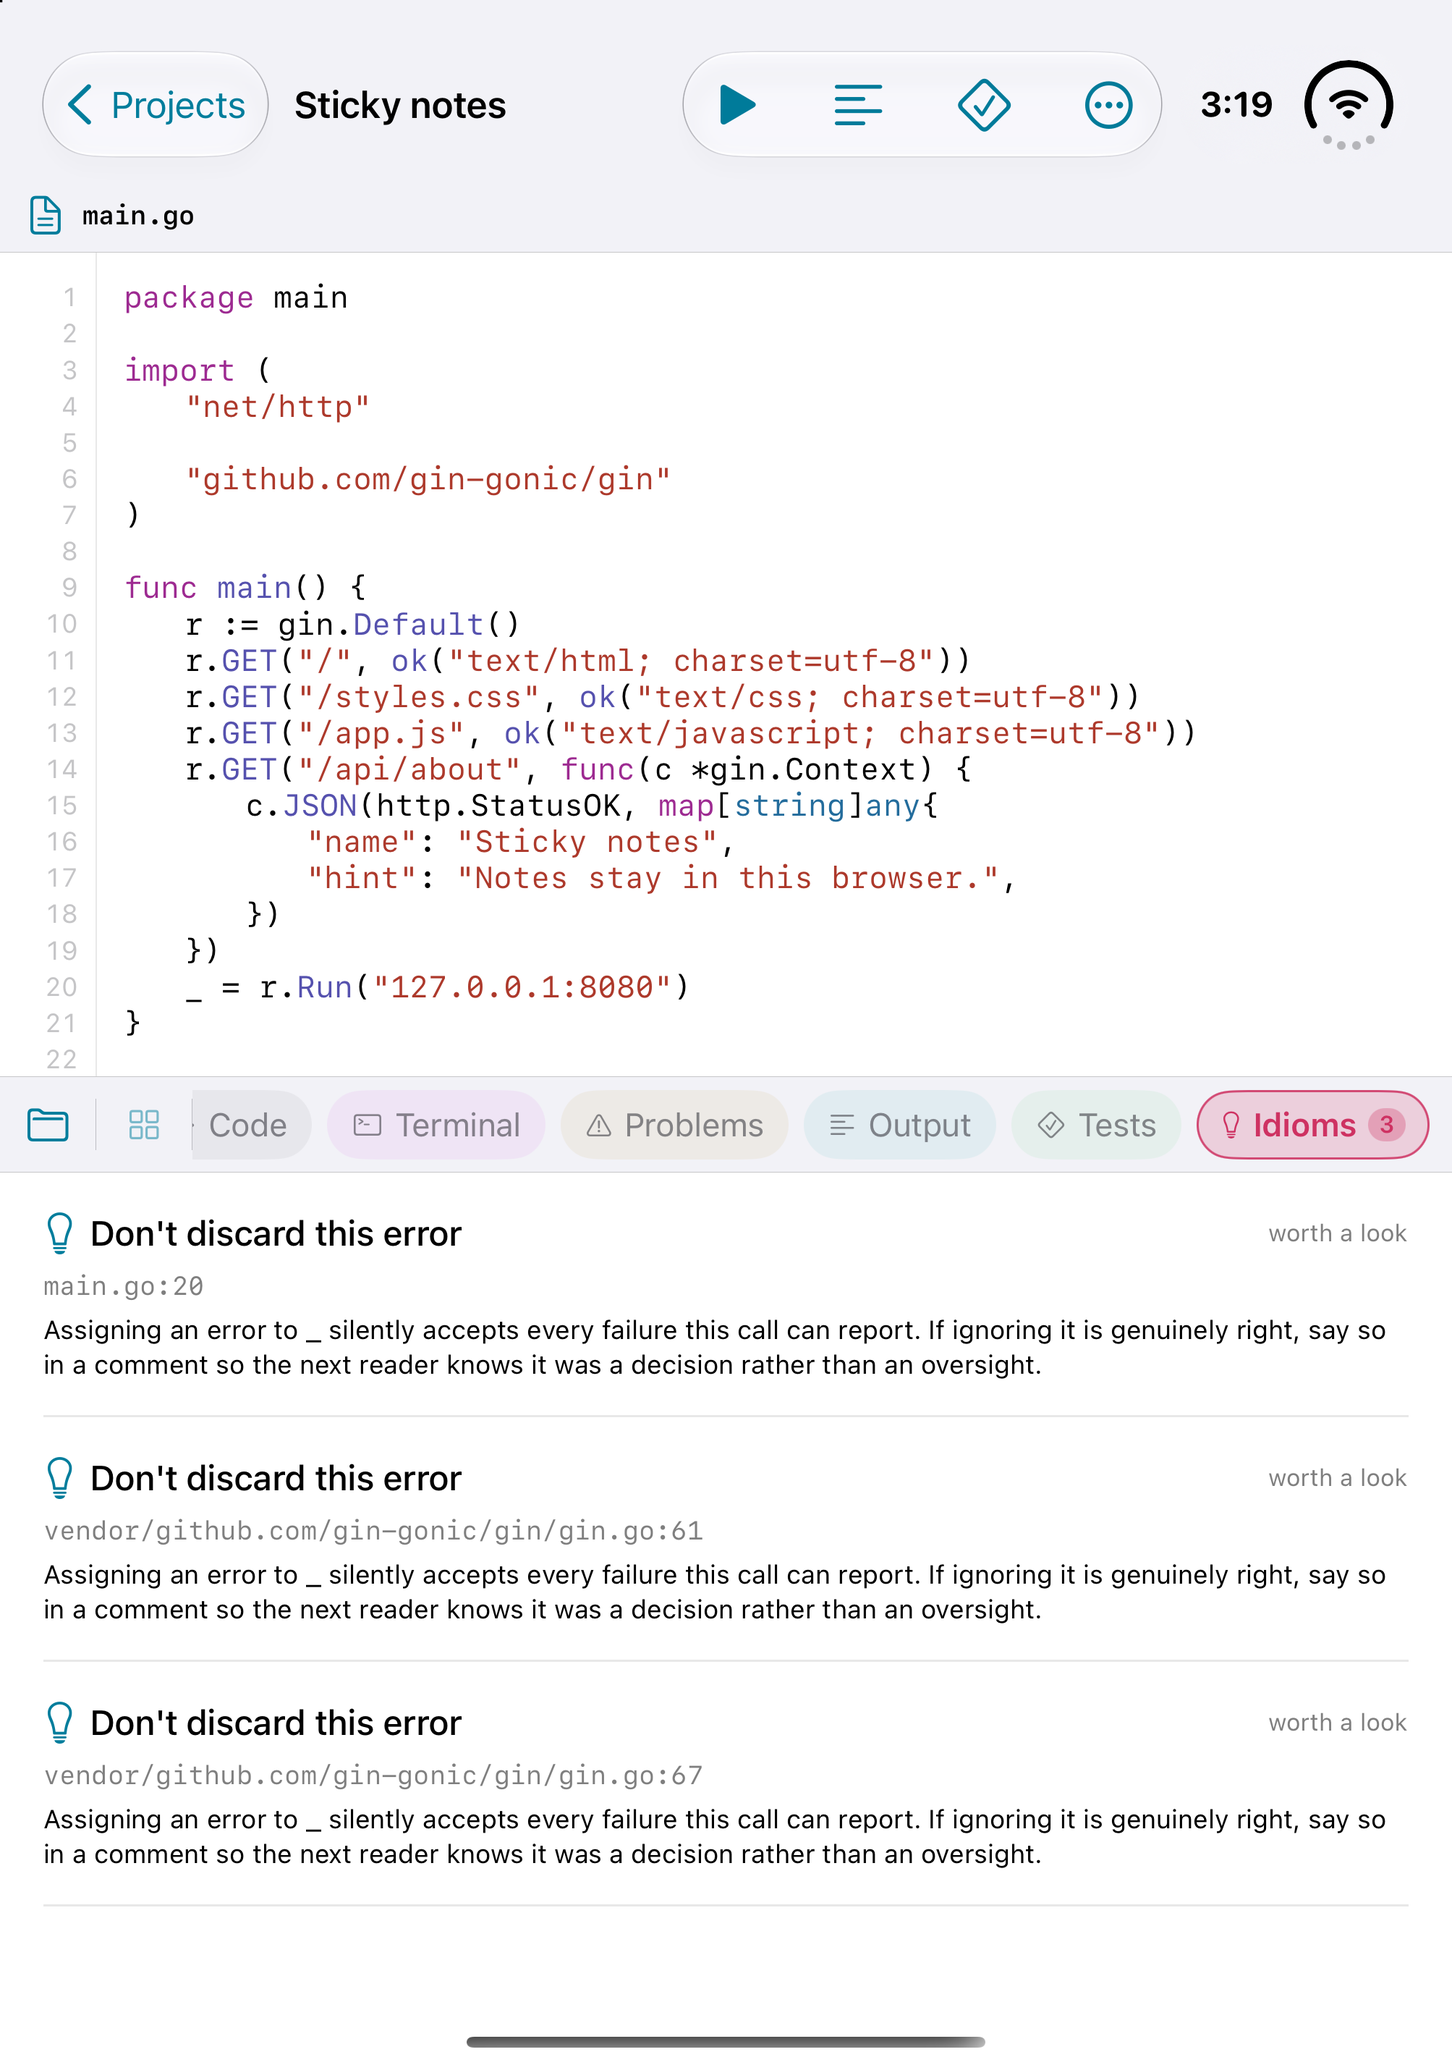
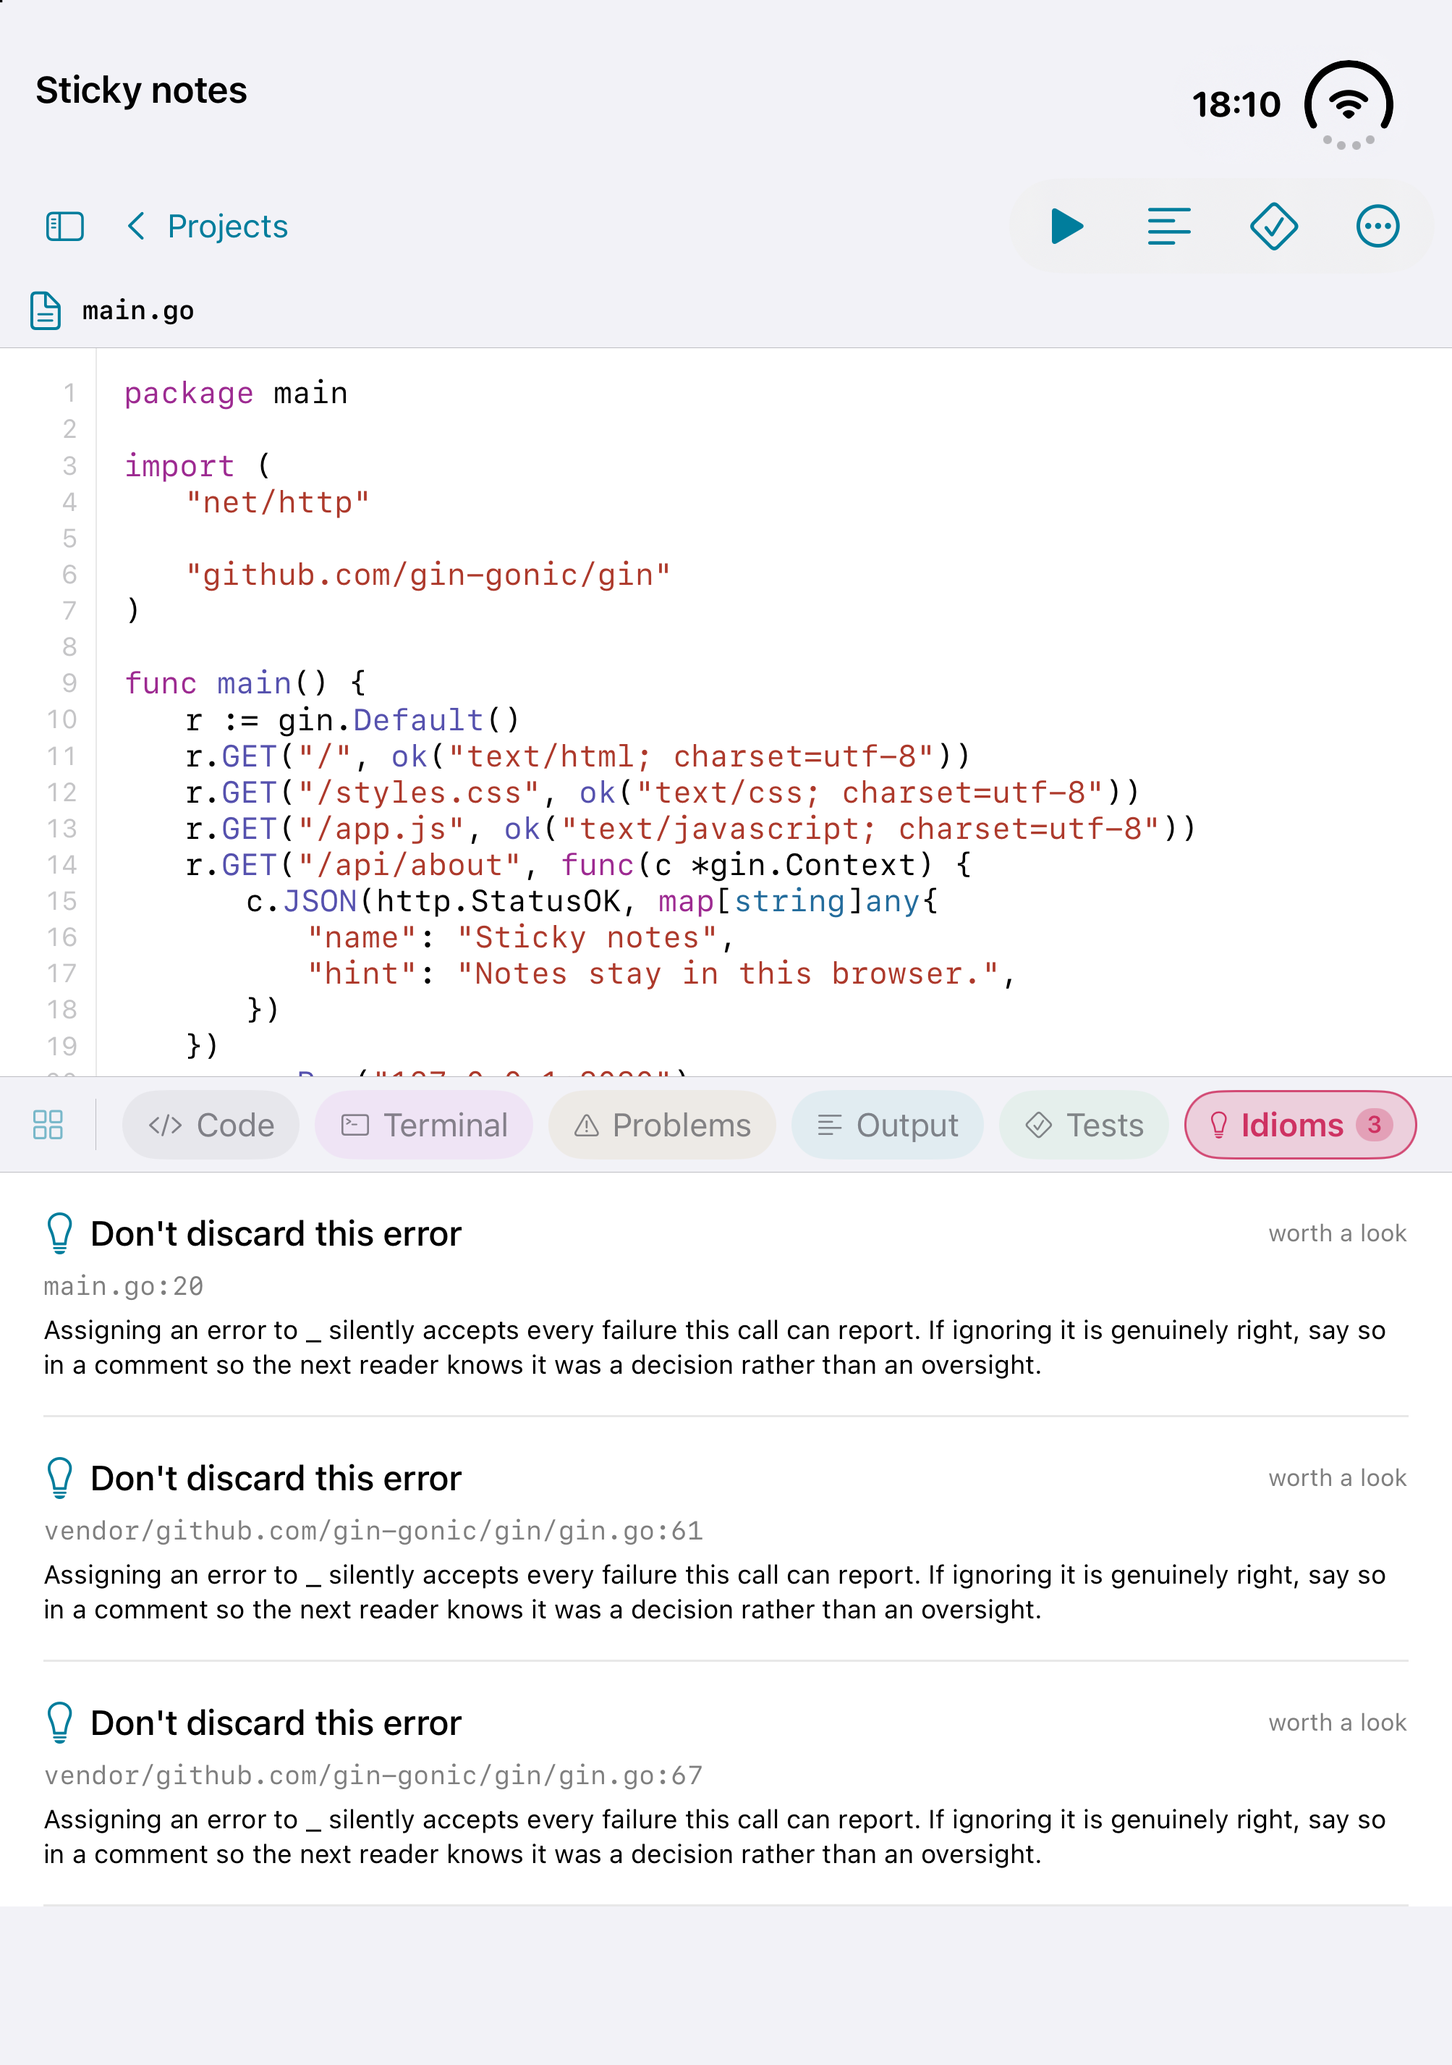
Publish build 20 preview evidence and corrected native workspace captures

diff --git a/scripts/capture_workspace_frames.py b/scripts/capture_workspace_frames.py
@@ -1,0 +1,74 @@
+#!/usr/bin/env python3
+"""Capture public simulator display pixels during verified XCTest holds.
+
+Use Device Hub to select a Duo posture first; this script never overrides it.
+--display accepts the UUID or name returned by public simctl io enumerate.
+"""
+
+import argparse
+from pathlib import Path
+import subprocess
+import time
+
+from PIL import Image
+
+
+def main():
+    parser = argparse.ArgumentParser(description=__doc__)
+    parser.add_argument("--device", required=True)
+    parser.add_argument("--display", help="Omit for an ordinary single-display device")
+    parser.add_argument("--test", required=True)
+    parser.add_argument("--frame", action="append", required=True)
+    parser.add_argument("--output", required=True)
+    args = parser.parse_args()
+    root = Path(__file__).resolve().parents[1]
+    output = root / args.output
+    output.mkdir(parents=True, exist_ok=True)
+    result = output.with_suffix(".xcresult")
+    if result.exists():
+        raise SystemExit("Choose a fresh result path; existing evidence is retained")
+    log_path = output / "capture.log"
+    names = set(args.frame)
+    captured = set()
+    command = [
+        "xcodebuild", "-project", "GopherForge.xcodeproj", "-scheme", "GopherForgeScreenshots",
+        "-configuration", "Release", "-destination", f"platform=iOS Simulator,id={args.device}",
+        "-destination-timeout", "180", "-derivedDataPath", "DerivedDataScreenshots",
+        "-collect-test-diagnostics", "never", "-disableAutomaticPackageResolution",
+        "-parallel-testing-enabled", "NO", "-jobs", "2", "ONLY_ACTIVE_ARCH=YES",
+        "SWIFT_SUPPRESS_WARNINGS=NO", f"-only-testing:GopherForgeUITests/{args.test}",
+        "-resultBundlePath", str(result), "test-without-building",
+    ]
+    with log_path.open("w") as log:
+        process = subprocess.Popen(command, cwd=root, stdout=log, stderr=subprocess.STDOUT)
+        try:
+            deadline = time.monotonic() + 900
+            while process.poll() is None:
+                text = log_path.read_text()
+                for name in names - captured:
+                    if f"GF_NATIVE_FRAME_READY: {name}" not in text:
+                        continue
+                    path = output / f"{name}.png"
+                    screenshot = ["xcrun", "simctl", "io", args.device, "screenshot"]
+                    if args.display:
+                        screenshot.append(f"--display={args.display}")
+                    subprocess.run(screenshot + [str(path)], check=True, timeout=30)
+                    with Image.open(path) as image:
+                        if not any(high - low > 100 for low, high in image.convert("RGB").getextrema()):
+                            raise RuntimeError(f"Reject blank display: {name}")
+                    captured.add(name)
+                    print(f"Captured {name}", flush=True)
+                if time.monotonic() > deadline:
+                    raise TimeoutError("Capture exceeded 15 minutes")
+                time.sleep(0.5)
+            if process.returncode != 0 or captured != names:
+                raise RuntimeError(f"Capture failed; inspect {log_path}")
+        finally:
+            if process.poll() is None:
+                process.terminate()
+                process.wait(timeout=30)
+    print("Captured all verified frames. Inspect their appearance before publishing.")
+
+
+if __name__ == "__main__":
+    main()

diff --git a/README.md b/README.md
@@ -34,13 +34,21 @@ should reflect the app's actual App Store availability.
 
 ## Version 1.1 preview
 
-Version 1.1 (build 18) is available to internal TestFlight testers. The public App Store
-version remains 1.0.1. Version 1.1 was submitted to App Review on 12 October
-2026 and is waiting for review, with automatic release after Apple approval.
+Version 1.1 (build 20) is available to internal TestFlight testers. The public
+App Store version remains 1.0.1. The earlier build 18 is still selected for
+App Review, with automatic release after approval. Build 20 has not replaced
+that submission yet: the remaining native Duo posture and hardware-keyboard
+checks are recorded in [the layout evidence](docs/releases/1.1-layout-checks.md).
 
 - iPhone Duo adapts to closed, open and partially folded screens. Laptop posture
   keeps code or terminal above the hinge and puts keyboard or result panes below.
   Projects remains reachable while the keyboard is open.
+- Files stays on the left, with a working toggle and adjustable width. The
+  ordinary iPhone landscape column remains collapsible. Keyboard helpers appear
+  only with the touch keyboard; without it, Duo Code and Terminal use the
+  available display height.
+- Build 20 fixes the Terminal-to-Code keyboard spacing and gives ordinary phone
+  landscape panels a consistent background and rounded edges.
 - All 47 lessons and 22 prediction challenges have an authored visual guide,
   practical notes, common pitfalls and a link to the official Go reference.
 - Explanations, quizzes, matching drills and examples use consistent Go highlighting.
@@ -55,6 +63,14 @@ without publishing the exercises' hidden tests or verified solutions.
 ## What it looks like
 
 <img src="docs/app-store/screenshots/iphone-6.9/00-code.png" width="330" alt="Real Go code in the GopherForge editor on iPhone">
+
+| **iPhone landscape: Files open** | **iPhone landscape: Files closed** |
+| --- | --- |
+| <img src="docs/screenshots/iphone-landscape-files.png" alt="Build 20 on iPhone 13 in landscape with an open left Files column and a shared background around the rounded code panel"> | <img src="docs/screenshots/iphone-landscape-code.png" alt="The same build 20 landscape workspace after Files is closed, giving the code the available width"> |
+
+The Files button closes and restores this column. These are native build 20
+captures from the same check that opens the actual software keyboard; the
+[keyboard frame](docs/screenshots/iphone-landscape-keyboard.png) is retained too.
 
 Every compiler result below is a real run of the bundled toolchain in the
 Simulator — the test counts, the diagnostics, the program output and the
@@ -87,28 +103,25 @@ fills the lower display.
 
 The navigator images come from the UI regression in
 `NavigatorFlowUITests`, captured with `scripts/navigator_screenshots.sh`.
-The five native posture images use the running Release build 1.1 (18).
-Device Hub's real Open and Partially Open controls select the posture; no
-forced layout is used. Four native laptop UI checks passed without failures
-or skips, including lower-pane replacement and Projects exit with the keyboard
-open. The dedicated capture run also passed. Capture reads the enumerated inner
-LCD with public simctl; XCTest's inactive-display black frames were rejected.
-CoreSimulator recovered without rebooting the Mac.
+The three laptop posture images use the running Release build 1.1 (20), with
+Device Hub's actual horizontal partial fold and a visible system keyboard.
+Four native checks passed: left Files navigation and resizing, Code and result
+replacement, Terminal input, and full-height Code after hiding the keys.
+The header Files and Projects controls also passed their tap checks. The final
+three-frame capture run passed. Public simctl reads the inner display;
+XCTest's inactive-display black frames were rejected.
 
-| **Native Duo open** | **Native Duo book** |
-| --- | --- |
-| <img src="docs/screenshots/duo-open-code.png" width="450" alt="Build 18 native Duo open display with highlighted Go code and searchable Files"> | <img src="docs/screenshots/duo-book-code.png" width="450" alt="Build 18 native Duo book posture with code and Files on opposite sides of the vertical hinge"> |
-
-Version 1.1 (18) is waiting for App Store review. All 72 placed media assets
-are included in that submission; release is automatic after approval.
+Version 1.1 (18) remains in review with its original 72 media placements.
+The three corrected build 20 images are uploaded to the Asset Library and
+published on the website; they are not yet assigned to the review version.
 
 | **Native Duo code capture** | **Native Duo visual lesson** |
 | --- | --- |
 | <img src="docs/screenshots/duo-native-code.png" width="300" alt="Fresh build 17 native iPhone Duo capture showing real worker-pool Go source"> | <img src="docs/screenshots/duo-native-lesson.png" width="300" alt="Fresh build 17 native Duo lesson capture showing Produce, Finish and Drain in the channel ownership diagram"> |
 
 These two build 17 captures use the simulator's current native display. They
-verify the running app and guide presentation. The five build 18 posture
-captures above additionally show the native open, book and laptop layouts.
+verify the guide presentation, whose authored content is unchanged in build 20.
+The three build 20 images above show the corrected laptop workspace.
 
 The [App Store screenshot sets](docs/app-store/screenshots) are captured from
 the running Release app for 6.1, 6.3, 6.5 and 6.9-inch iPhones, native iPhone
@@ -127,7 +140,7 @@ inner display too. Run `scripts/check_app_store_screenshots.sh` to verify the
 complete ordered sets, native dimensions, opaque pixels and rendered contrast
 before uploading.
 
-The draft holds ten ordered screenshots in each of seven display groups,
+The build 18 submission holds ten ordered screenshots in each of seven display groups,
 plus code-based header and search artwork. Native example captures with build
 17 passed visual inspection; its site capture waits for painted pixels, rather
 than accessibility text alone. All 69 guide records and compiler inputs are

diff --git a/docs/releases/1.1-layout-checks.md b/docs/releases/1.1-layout-checks.md
@@ -1,0 +1,49 @@
+# Version 1.1 (20): workspace regression checks
+
+App source: `d8c3455`. Checked on 12 October 2026.
+
+| Device and runtime | Check | Result |
+| --- | --- | --- |
+| iPhone 13, iOS 26.5 | Terminal → Code chip → tap inside source; repeat, hide/reopen keyboard | Passed; 5 pt editor-to-helper spacing |
+| iPhone 13, iOS 26.5 | Edit at the end of a long file; hide/reopen keyboard | Passed; 5 pt spacing |
+| iPhone 13, iOS 26.5 | Landscape Files column closes and returns | Passed |
+| iPhone 17 Pro, iOS 26.5 | Same three phone regressions | All passed |
+| iPad Pro 13, iPadOS 26.5 | Resize Files, collapse by button and drag, restore saved width | Passed; divider moved 80 pt |
+| Native Duo, iOS 27.1, horizontal partial fold | One Files control; opens left, resizes, selects a file | Passed |
+| Native Duo, iOS 27.1, horizontal partial fold | Code keys; Problems, Output, Tests and Idioms replace keys | Passed |
+| Native Duo, iOS 27.1, horizontal partial fold | Terminal keys; hide/reopen | Passed |
+| Native Duo, iOS 27.1, horizontal partial fold | Hide keys; helpers disappear and Code reclaims display height | Passed; tabs reach the bottom within 4 pt |
+| Native Duo, iOS 27.1 | Header Files and Projects controls at the system safe-area boundary | Both passed |
+
+The Duo checks use Device Hub's actual posture and a hittable system keyboard.
+They do not use the forced laptop test layout. The no-keyboard check establishes
+the hidden-keyboard layout; it is not a claim that a physical keyboard was tested.
+
+The physical iPhone 13 report used a newer iOS version than the installed
+ordinary-phone runtime. The exact reported sequence passed on the listed
+simulator systems; a physical-device verification is not claimed.
+
+Local result bundles are retained under `build/release-1.1`: `final20-iphone13-all-three`,
+`final20-iphone17`, `final20-ipad`, `final20-duo-laptop`, and `native20-header-safe-band`.
+The final header tint change is visual only; the interaction checks preceded it.
+
+The final ordinary landscape capture also passed, with native frames for Files
+open, Files closed and a hittable software keyboard. Its result is
+`native-iphone13-landscape-default-final20`. All three 2532 × 1170 images were
+visually inspected and saved under `docs/screenshots/iphone-landscape-*.png`.
+
+XCTest's rotated or inactive-display images are rejected. Native screenshots use
+the display UUID returned by public `simctl io enumerate` during a verified
+XCTest capture hold. Ordinary single-display devices use simctl's default LCD,
+because display-port UUIDs can change when the automation session starts.
+`scripts/capture_workspace_frames.py` retains the capture
+log and result bundle beside each group of frames for inspection.
+
+## Remaining release checks
+
+Native Open and Book, closed Duo landscape keyboard spacing, and hardware
+keyboard simulation still require access to Device Hub. Their updated posture
+images must be inspected before replacing the existing App Review submission.
+The empty Header shown in version 1.1's web UI also needs correction and a
+visible confirmation in the editable version. API placement status alone did
+not establish that the Header was displayed.

diff --git a/docs/releases/1.1.md b/docs/releases/1.1.md
@@ -6,9 +6,35 @@ The owner authorized App Review submission and automatic release on 12 October
 2026. Version 1.1 (18) is now `WAITING_FOR_REVIEW`, with `AFTER_APPROVAL` release.
 Internal TestFlight remains available. Version 1.1 is not yet approved or live.
 
+## Corrected preview: build 20
+
+Build 20, app source `d8c3455`, is now `VALID`, `APP_STORE_ELIGIBLE` and
+`IN_BETA_TESTING` for Internal QA. Apple package validation and upload succeeded.
+Its build ID is `b3976327-c1dc-4189-be8a-38a93f673f38`.
+
+It corrects Terminal-to-Code keyboard spacing, Duo header hit targets, left
+Files navigation and resizing, helpers with hardware keyboards, and unused
+display height when touch keys are absent. Ordinary iPhone landscape keeps
+the collapsible column and uses consistent panel corners and background.
+The app and Share extension both export as 1.1 (20), signed for distribution.
+The 69-guide catalog in the archive exactly matches the source.
+
+The iPhone 13 and 17 Pro regressions, iPad Files resizing, and four actual Duo
+laptop checks passed. Three native build 20 screenshots were inspected and
+published on the website, replacing the old laptop images and CSS schematics.
+The gallery now contains 19 captures; old Open/Book images are removed until
+they can be refreshed. The website course and legal files are unchanged.
+
+Build 18 still owns the current review submission. Build 20 has not replaced
+it yet. Native Open/Book and closed landscape Duo checks, hardware-keyboard
+verification, refreshed posture media and the empty 1.1 Header UI remain to
+finish before replacing the submission. Device Hub access is currently needed.
+See [the exact layout checks](1.1-layout-checks.md).
+
 Build 18 was briefly withdrawn after a keyboard-gap report and resubmitted on
 12 October at the owner request. The original build and all 72 assets are preserved;
-automatic release remains enabled. The proposed build 19 was not uploaded.
+automatic release remains enabled. Build 19 was later uploaded and processed,
+but is superseded by the corrected build 20 preview and is not selected for review.
 
 ## Changes
 
@@ -21,7 +47,7 @@ automatic release remains enabled. The proposed build 19 was not uploaded.
 - Page-level scrolling for embedded lesson source; internal scrolling in full screen.
 - Canonical website support/privacy URLs and Terms of Use in Settings.
 
-## Verification and publication
+## Build 18 verification and publication
 
 - Archive and manual App Store export succeeded with Xcode 27.1 RC.
 - Apple package validation and upload succeeded without errors.
@@ -56,7 +82,7 @@ automatic release remains enabled. The proposed build 19 was not uploaded.
   plus a code hero, 21 fresh feature and native posture screenshots, Support, Privacy and Terms
   at <https://gopherforge.app>. Its consistency suite passed 989 checks.
 
-## Native Duo verification
+## Build 18 native Duo verification
 
 CoreSimulator and Device Hub recovered without rebooting the Mac. On Release
 build 18, all four native laptop UI checks passed without failures or skips.
